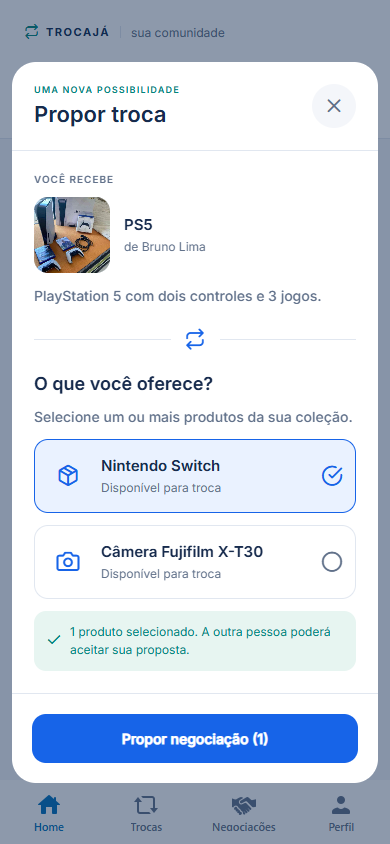
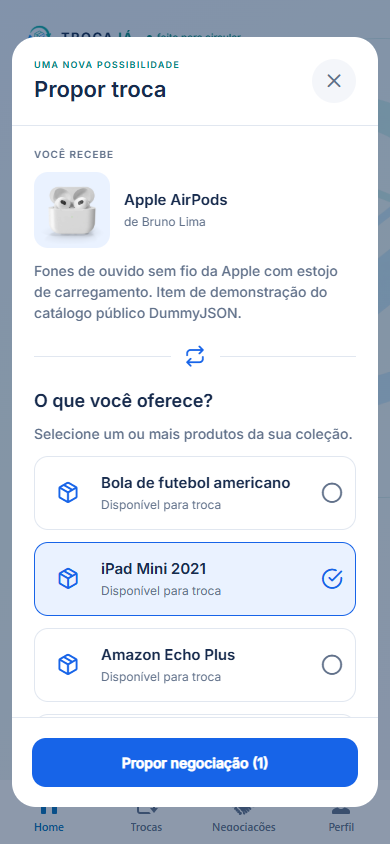
Fix: atualiza capturas do aplicativo no README

diff --git a/README.md b/README.md
@@ -30,11 +30,11 @@ Distribuição proposta para esta entrega, a confirmar pelo grupo; não represen
 
 | Contas fictícias | Home e filtros | Proposta |
 | --- | --- | --- |
-| <img src="docs/evidencias/01-contas.png" width="230" alt="Seleção de conta fictícia"> | <img src="docs/evidencias/02-home.png" width="230" alt="Busca por PS5 e filtro Jogos"> | <img src="docs/evidencias/03-proposta.png" width="230" alt="Nintendo Switch oferecido por PS5"> |
+| <img src="docs/evidencias/01-contas.png" width="230" alt="Login com contas de demonstração"> | <img src="docs/evidencias/02-home.png" width="230" alt="Home com identidade TrocaJá, filtros e produtos do Supabase"> | <img src="docs/evidencias/03-proposta.png" width="230" alt="iPad Mini 2021 oferecido por Apple AirPods"> |
 
 | Histórico de trocas | Conversas aceitas | Chat | Perfil |
 | --- | --- | --- | --- |
-| <img src="docs/evidencias/04-trocas.png" width="230" alt="Proposta enviada e ofertas recebidas"> | <img src="docs/evidencias/05-conversas.png" width="230" alt="Conversas disponíveis após aceite"> | <img src="docs/evidencias/06-chat.png" width="230" alt="Mensagem enviada no chat"> | <img src="docs/evidencias/07-perfil.png" width="230" alt="Perfil com produtos da conta fictícia"> |
+| <img src="docs/evidencias/04-trocas.png" width="230" alt="Proposta recebida de Ana para trocar iPad Mini por AirPods"> | <img src="docs/evidencias/05-conversas.png" width="230" alt="Conversas disponíveis após aceite"> | <img src="docs/evidencias/06-chat.png" width="230" alt="Mensagem enviada no chat"> | <img src="docs/evidencias/07-perfil.png" width="230" alt="Perfil de Ana com produtos e fotos do Supabase"> |
 
 Detalhes dos testes efetivamente executados: [registro de validação](docs/VALIDACAO.md).
 
